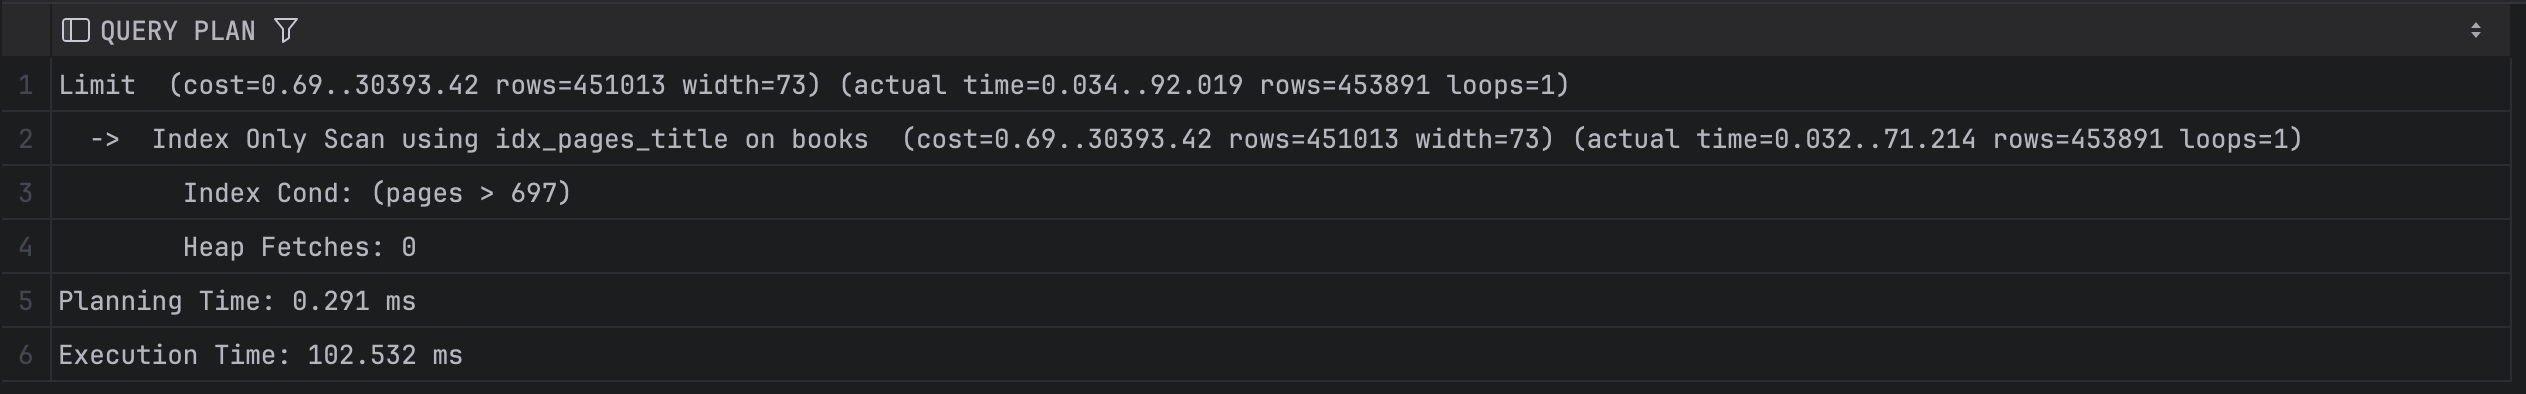
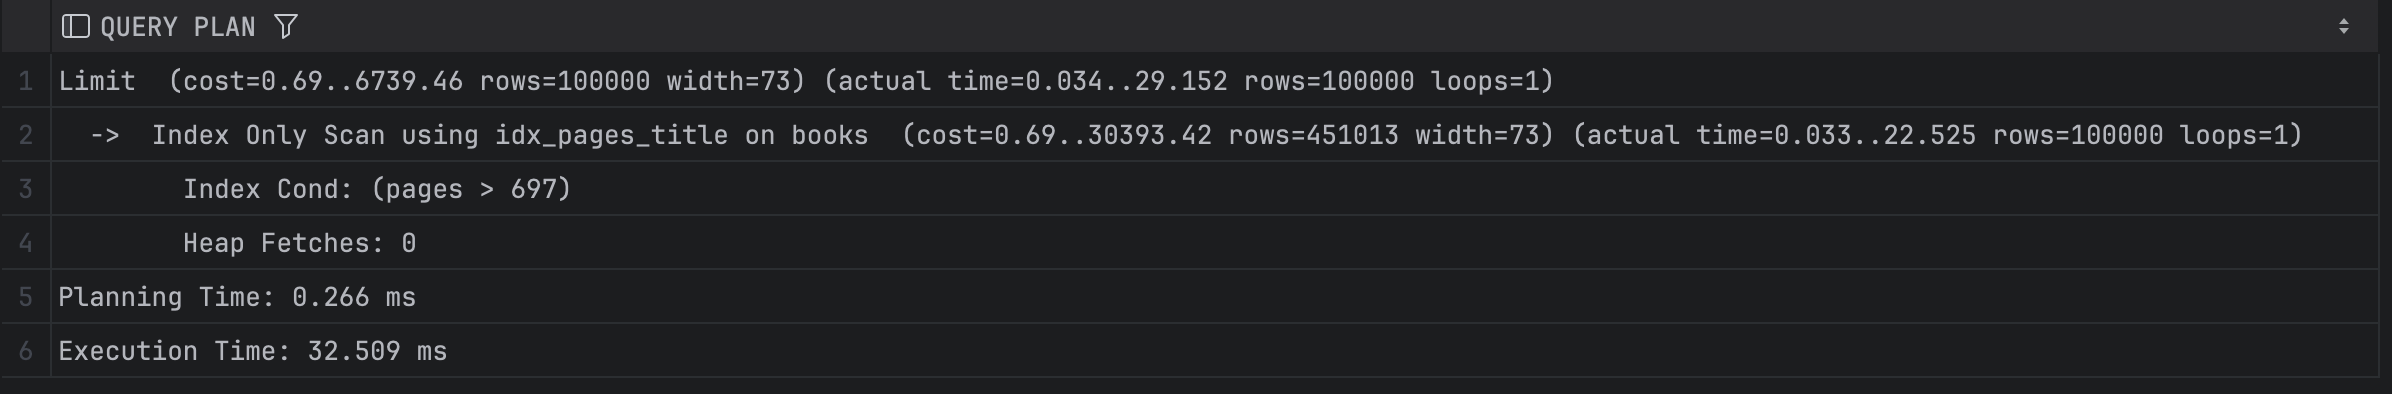
work

diff --git a/blog/postgres-indexing-1/index.md b/blog/postgres-indexing-1/index.md
@@ -318,7 +318,7 @@ Let's try it.
 
 ![Pages and title index](/postgres-indexing-1/img12-top-3-page-values-fast.png)
 
-Our query now runs in just 102ms! And we have a new operation in our execution plan.
+Our query now runs in just 32ms! And we have a new operation in our execution plan.
 
 ```bash
    ->  Index Only Scan using idx_pages_title on books  (cost=0.69..30393.42 rows=451013 width=73) (actual time=0.243..83.911 rows=453891 loops=1)
@@ -350,8 +350,8 @@ This tell Postgres to create our index on the pages column, as before, but also 
 
 ![Pages with included title index](/postgres-indexing-1/img12-index-with-included.png)
 
-And re-running that same query, we see that it does indeed run a little bit faster. From a little over 100ms, down to just 80ms.
+And re-running that same query, we see that it does run a bit faster. From 32ms down to just 21ms.
 
 ![Pages with included title index](/postgres-indexing-1/img13-query-with-included-col.png)
 
-It's not the kind of enormous improvement we've seen elsewhere, but I nice 20% speedup isn't something to turn down if you're using a database that supports this (MySQL does not).
+To be clear, it's quite fast either way, but a nice 31% speedup isn't something to turn down if you're using a database that supports this feature (MySQL does not).
